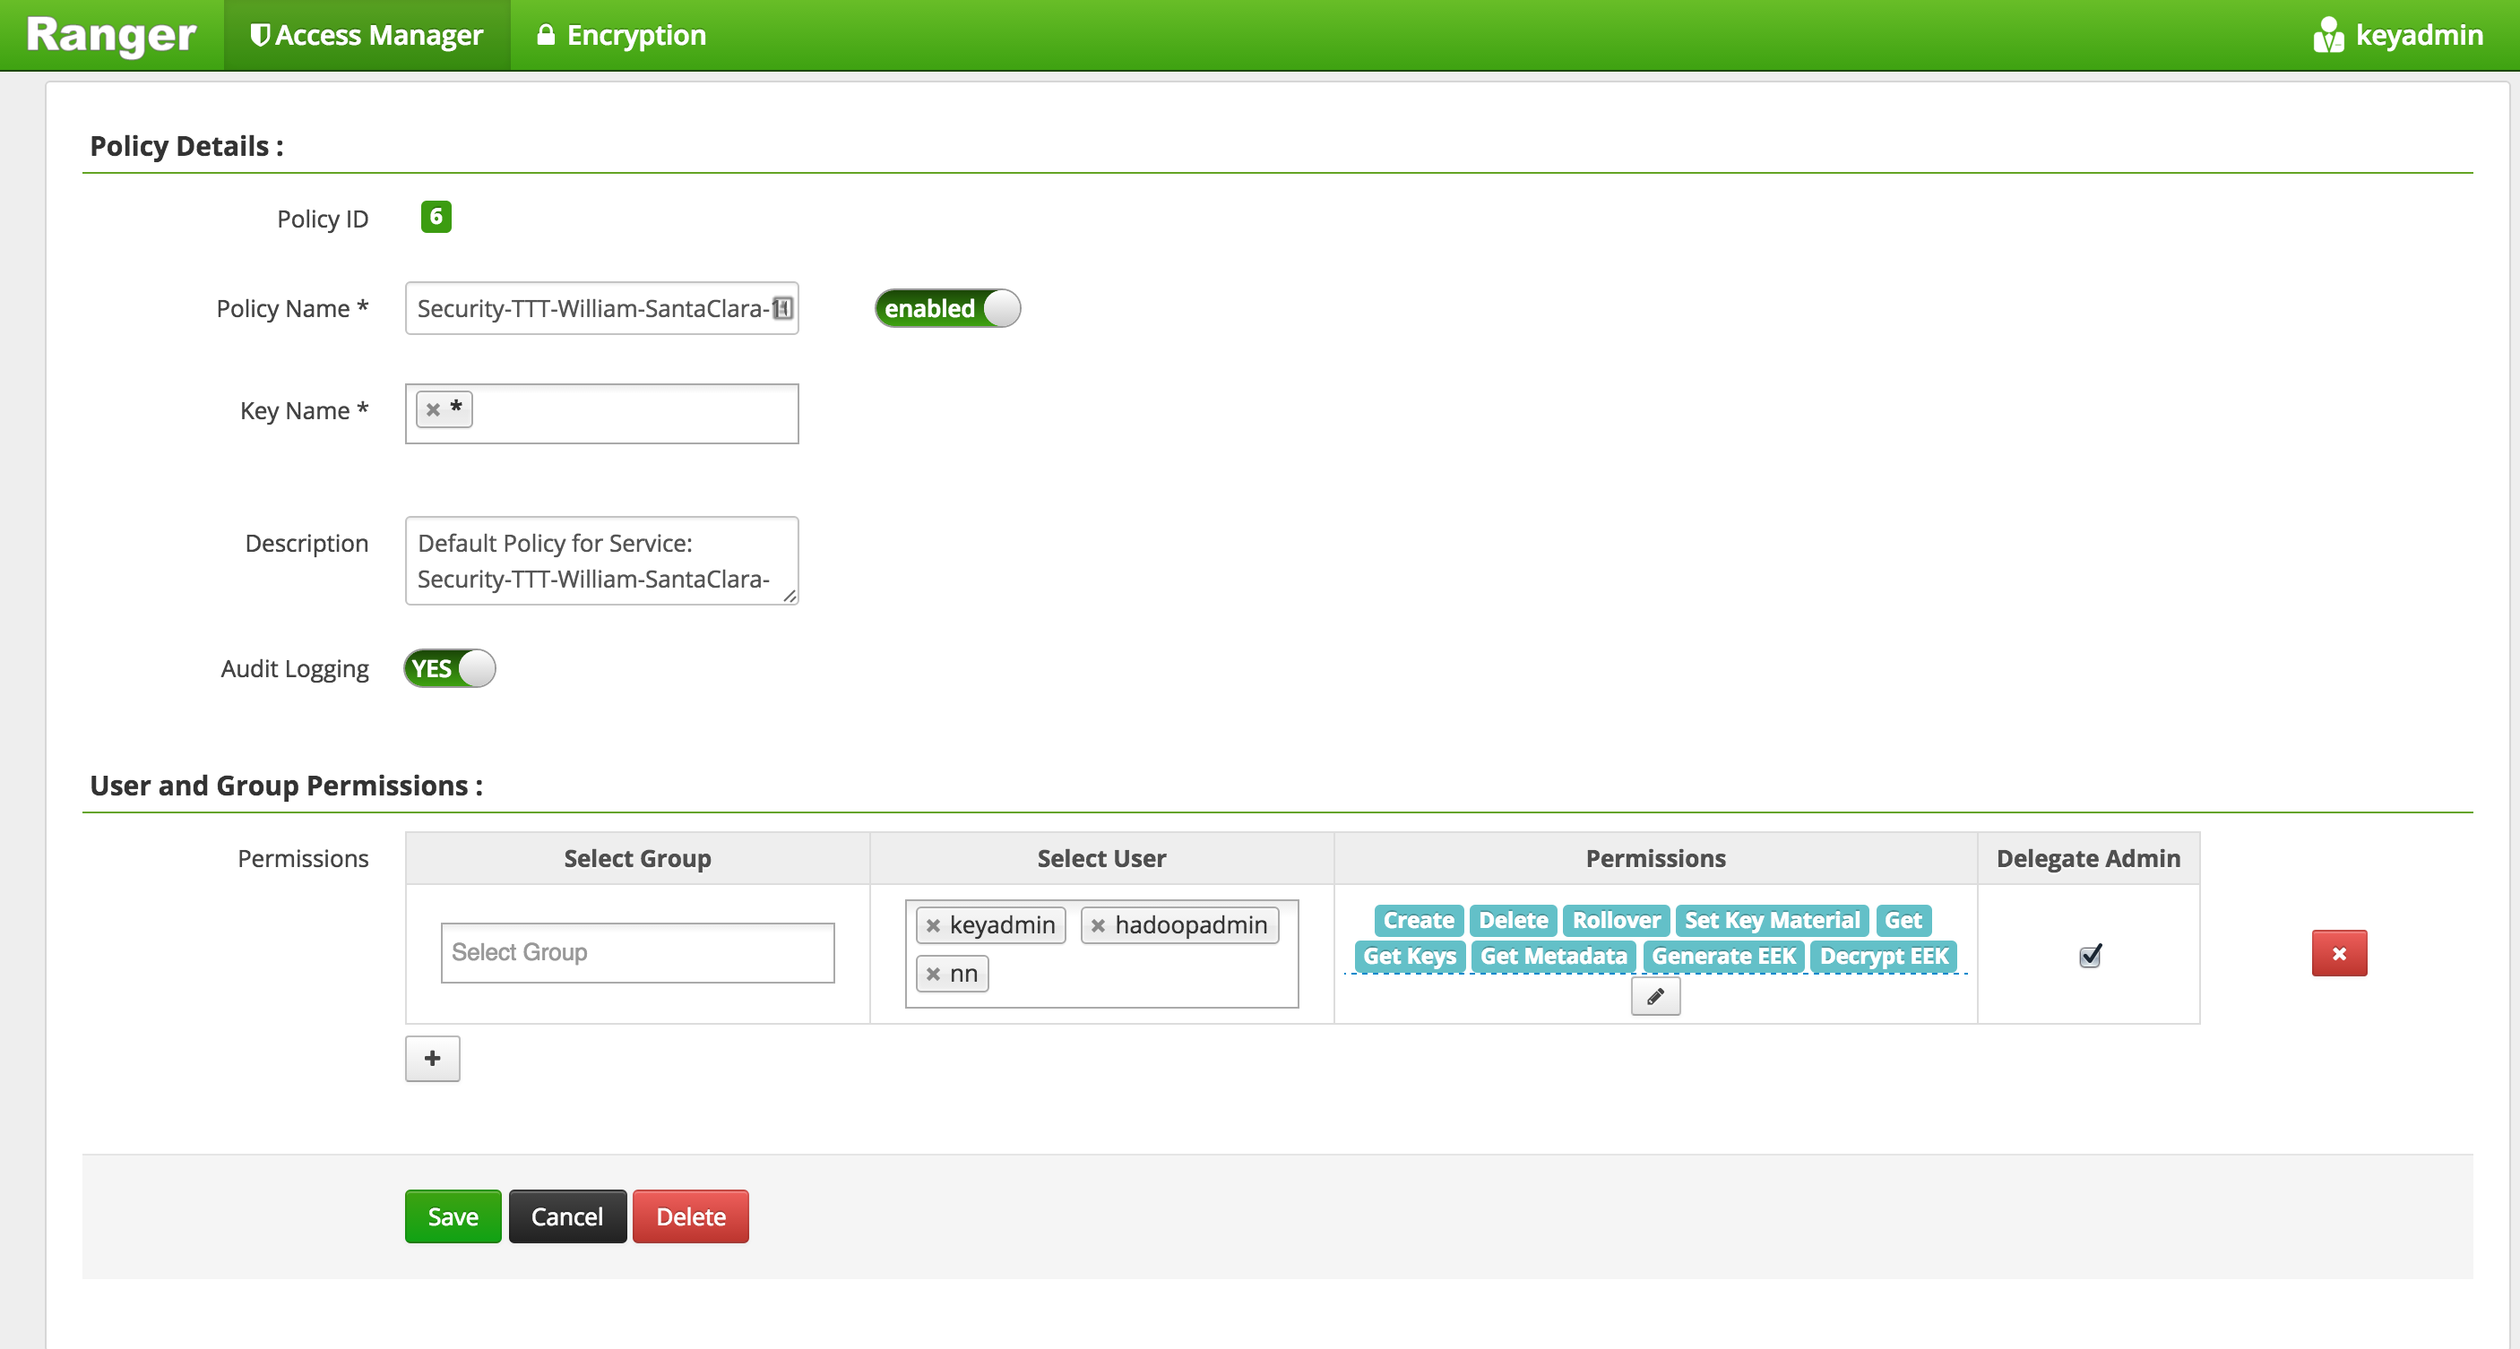
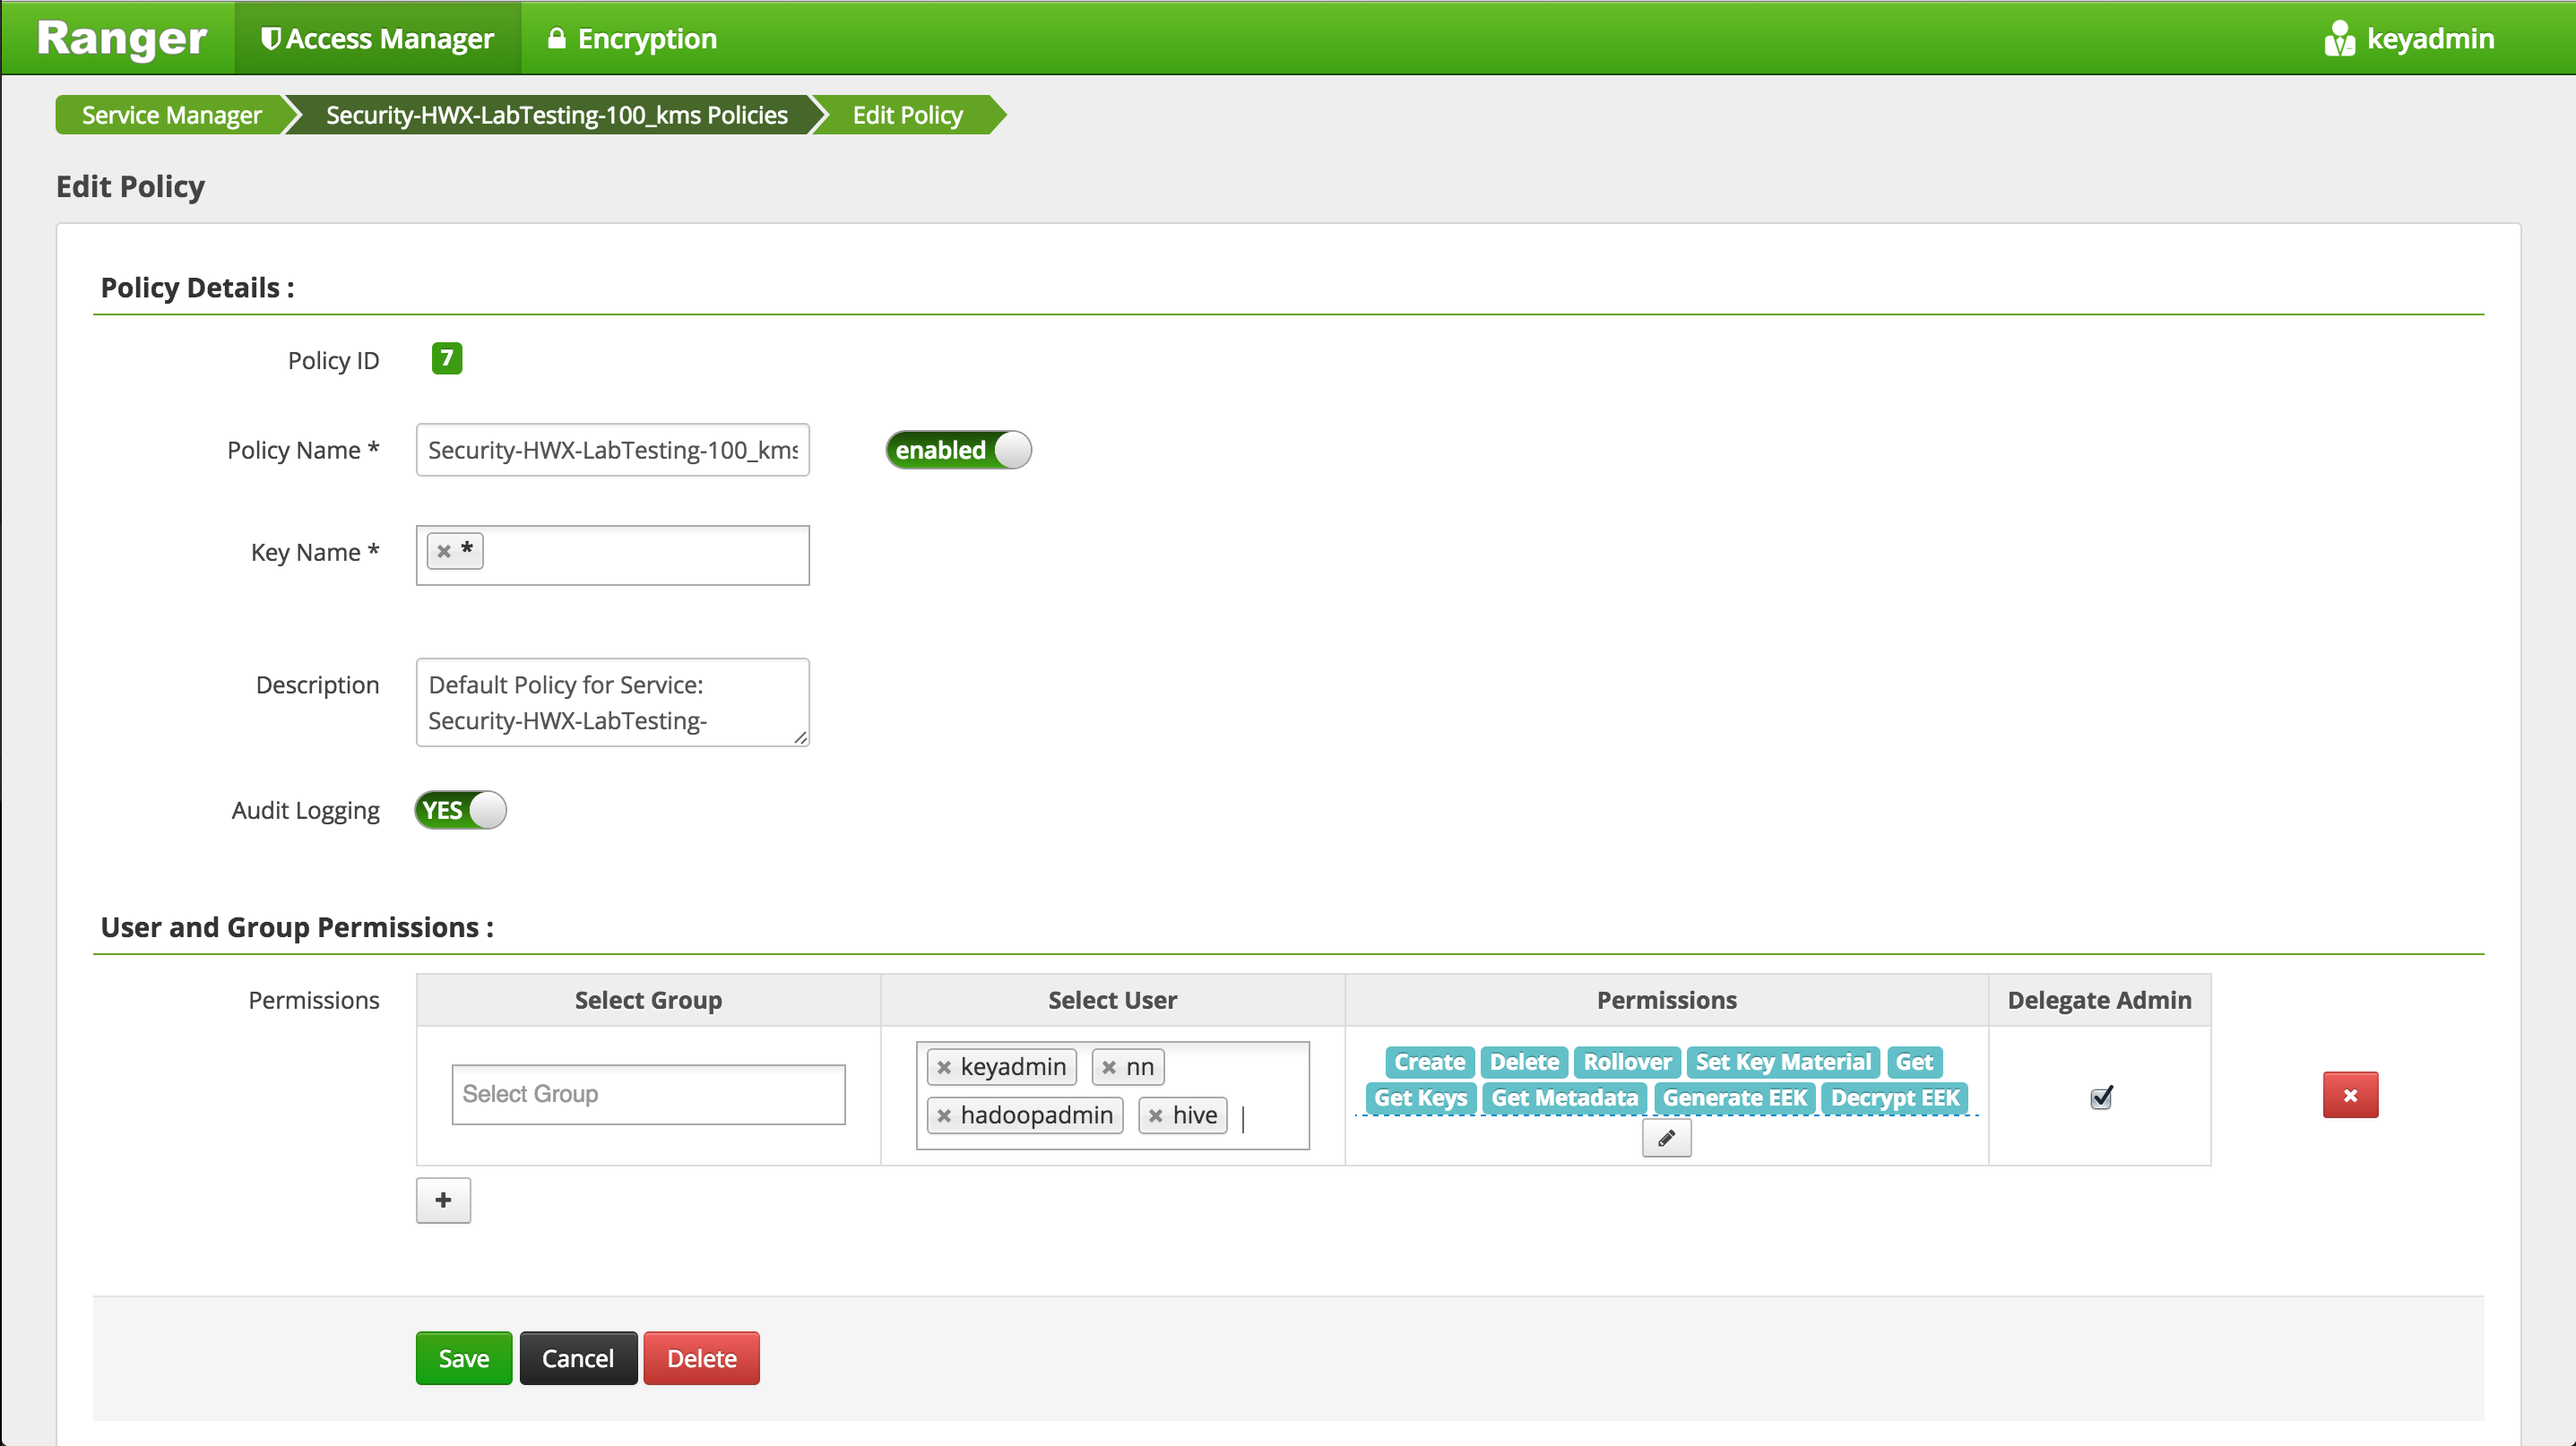
formatted

diff --git a/security-advanced/README.md b/security-advanced/README.md
@@ -1284,7 +1284,7 @@ sudo ln -s /etc/hadoop/conf/core-site.xml /etc/ranger/kms/conf/core-site.xml
 
 ## Ranger KMS/Data encryption exercise
 
-- Login to Ranger as admin/admin and 
+- Login to Ranger as admin/admin and create few users for Hadoop components we will need to create policies for:
   - create new user nn
     - Settings > Users/Groups > Add new user
       - username = nn
@@ -1295,6 +1295,9 @@ sudo ln -s /etc/hadoop/conf/core-site.xml /etc/ranger/kms/conf/core-site.xml
   ![Image](https://raw.githubusercontent.com/seanorama/masterclass/master/security-advanced/screenshots/Ranger-add-nn.png) 
     - Similarly, create a user: HTTP  
   ![Image](https://raw.githubusercontent.com/seanorama/masterclass/master/security-advanced/screenshots/Ranger-user-HTTP.png)
+    - Similarly, create a user: hive  
+  ![Image](https://raw.githubusercontent.com/seanorama/masterclass/master/security-advanced/screenshots/Ranger-user-hive.png)
+
   
   - Now lets add hadoopadmin to 'global policy' for HDFS to allow the user to global access on HDFS
     - Access Manager > HDFS > (clustername)_hadoop 
@@ -1335,7 +1338,7 @@ sudo ln -s /etc/hadoop/conf/core-site.xml /etc/ranger/kms/conf/core-site.xml
   - Select KMS service > pick your kms > Add new Key
   - Create a key called `testkey2` > Save  
 
-- Add user `hadoopadmin` and `nn` to default KMS key policy
+- Add user `hadoopadmin` and `nn` and `hive` to default KMS key policy
   - Click Access Manager tab
   - Click Service Manager > KMS > (clustername)_kms link
   ![Image](https://raw.githubusercontent.com/seanorama/masterclass/master/security-advanced/screenshots/Ranger-KMS-policy.png)
@@ -1343,10 +1346,10 @@ sudo ln -s /etc/hadoop/conf/core-site.xml /etc/ranger/kms/conf/core-site.xml
   - Edit the default policy
   ![Image](https://raw.githubusercontent.com/seanorama/masterclass/master/security-advanced/screenshots/Ranger-KMS-edit-policy.png)
   
-  - Under 'Select User', Add hadoopadmin and nn users and click Save
+  - Under 'Select User', Add `hadoopadmin`, `nn` and `hive` users and click Save
    ![Image](https://raw.githubusercontent.com/seanorama/masterclass/master/security-advanced/screenshots/Ranger-KMS-policy-add-nn.png)
   
-    - Note: at minimum `nn` user needs `GetMetaData` and  `GenerateEEK` priviledge
+    - Note: at minimum `nn` and `hive` users needs `GetMetaData` and  `GenerateEEK` priviledge
   
 - Run below to create a zone using the key and perform basic key and EZ exercises 
   - Create EZs using keys
@@ -1355,7 +1358,7 @@ sudo ln -s /etc/hadoop/conf/core-site.xml /etc/ranger/kms/conf/core-site.xml
   - View contents for raw file
   - Prevent access to raw file
   - Copy file across EZs
-  - **TODO** move hive warehouse dir to EZ
+  - move hive warehouse dir to EZ
   
 ```
 #run below on Ambari node
@@ -1652,6 +1655,12 @@ klist
 ```
 beeline -u "jdbc:hive2://localhost:10000/default;principal=hive/$(hostname -f)@HORTONWORKS.COM"
 ```
+
+- If you get the below error, it is because you did not add hive to the global KMS policy in an earlier step (along with nn, hadoopadmin). Go back and add it in.
+```
+org.apache.hadoop.security.authorize.AuthorizationException: User:hive not allowed to do 'GET_METADATA' on 'testkey'
+```
+
 - This time it connects. Now try to run a query
 ```
 beeline> select code, description from sample_07;
@@ -1682,6 +1691,11 @@ beeline> select code, description from sample_07;
     - Permissions : `select`
     - Add
   ![Image](https://raw.githubusercontent.com/seanorama/masterclass/master/security-advanced/screenshots/Ranger-HIVE-create-policy.png)
+  
+- Notice that as you typed the name of the DB and table, Ranger was able to look these up and autocomplete them
+  -  This was done using the rangeradmin principal we provided during Ranger install
+
+- Wait 30s for the new policy to be picked up
   
 - Now try accessing the columns again and now the query works
 ```
@@ -1714,6 +1728,10 @@ beeline> select code, description from sample_07;
 - For any allowed requests, notice that you can quickly check the details of the policy that allowed the access by clicking on the policy number in the 'Policy ID' column
 ![Image](https://raw.githubusercontent.com/seanorama/masterclass/master/security-advanced/screenshots/Ranger-audit-HIVE-policy-details.png)  
 
+- Exit beeline
+```
+!q
+```
 - Now let's check whether non-sales users can access the table
 
 - Logout as sales1 and log back in as hr1
